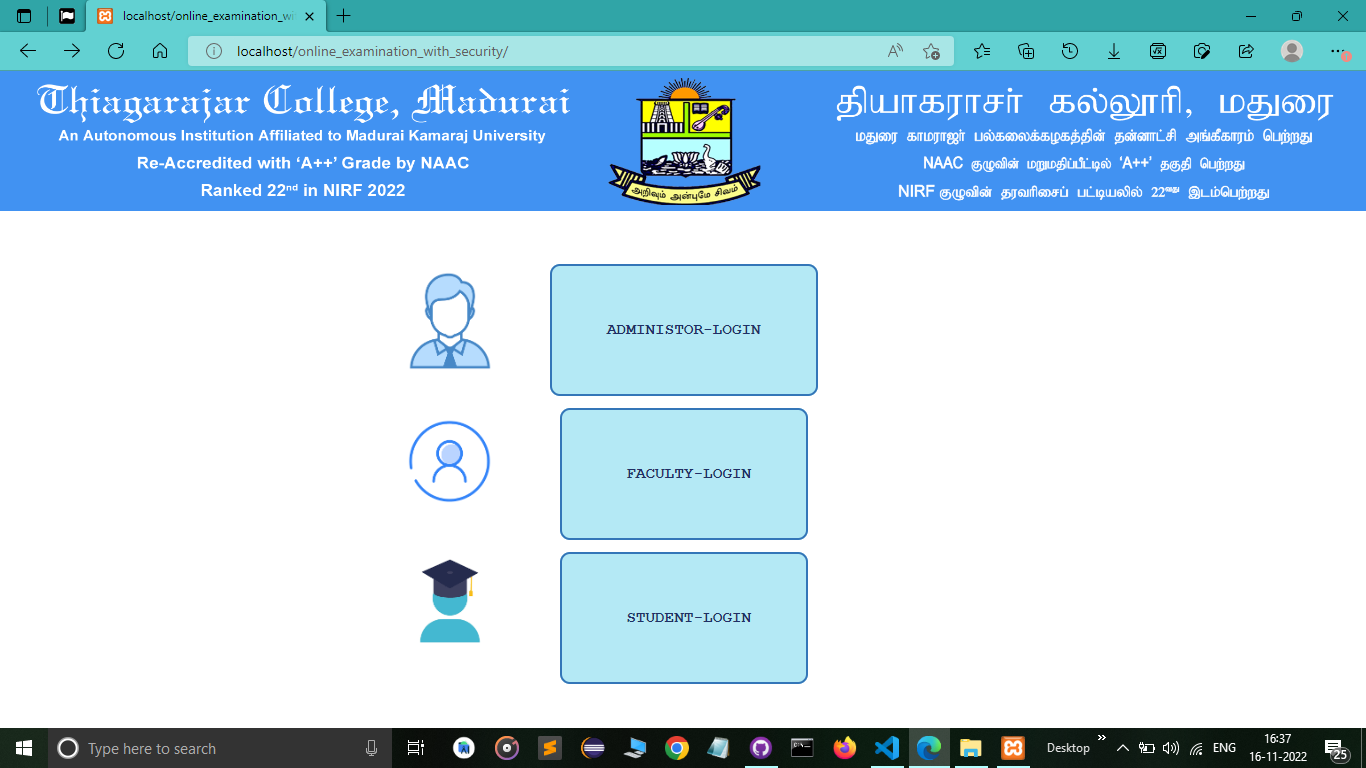
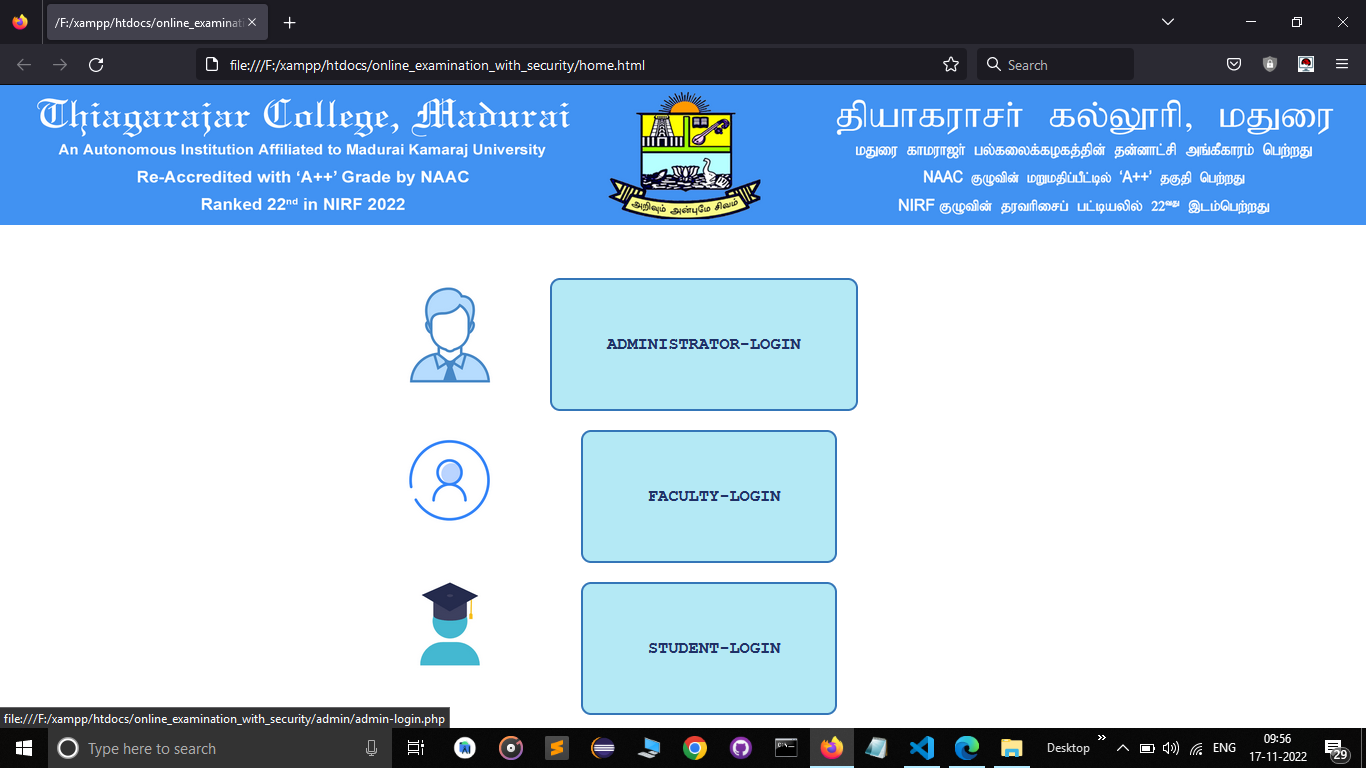
adminstrator spelling correctd

diff --git a/home.html b/home.html
@@ -46,9 +46,9 @@
         <img src="images/head.png" alt="">
     </div>
         <div class="links">    
-            <a href="admin/admin-login.php"> <b> ADMINISTOR-LOGIN <b> </a> <br> <br><br> <br> <br><br> <br> <br>
-            &nbsp;<a href="instructor/instructor-login.php"> FACULTY-LOGIN</a> <br> <br> <br> <br> <br> <br> <br> <br> 
-            &nbsp;<a href="student/student-login.php"> STUDENT-LOGIN</a>  
+            <a href="admin/admin-login.php"> <b> ADMINISTRATOR-LOGIN <b> </a> <br> <br><br> <br> <br><br> <br> <br>
+            &nbsp;&nbsp;&nbsp;<a href="instructor/instructor-login.php"> FACULTY-LOGIN</a> <br> <br> <br> <br> <br> <br> <br> <br> 
+            &nbsp;&nbsp;&nbsp;<a href="student/student-login.php"> STUDENT-LOGIN</a>  
         </div>  
 
         
